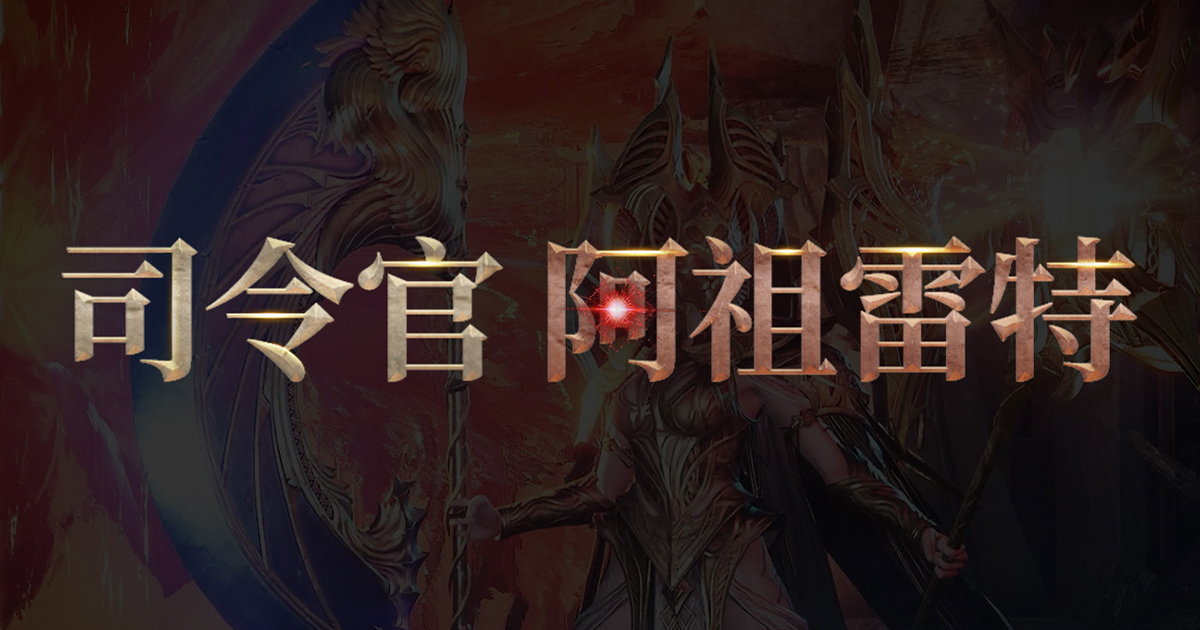
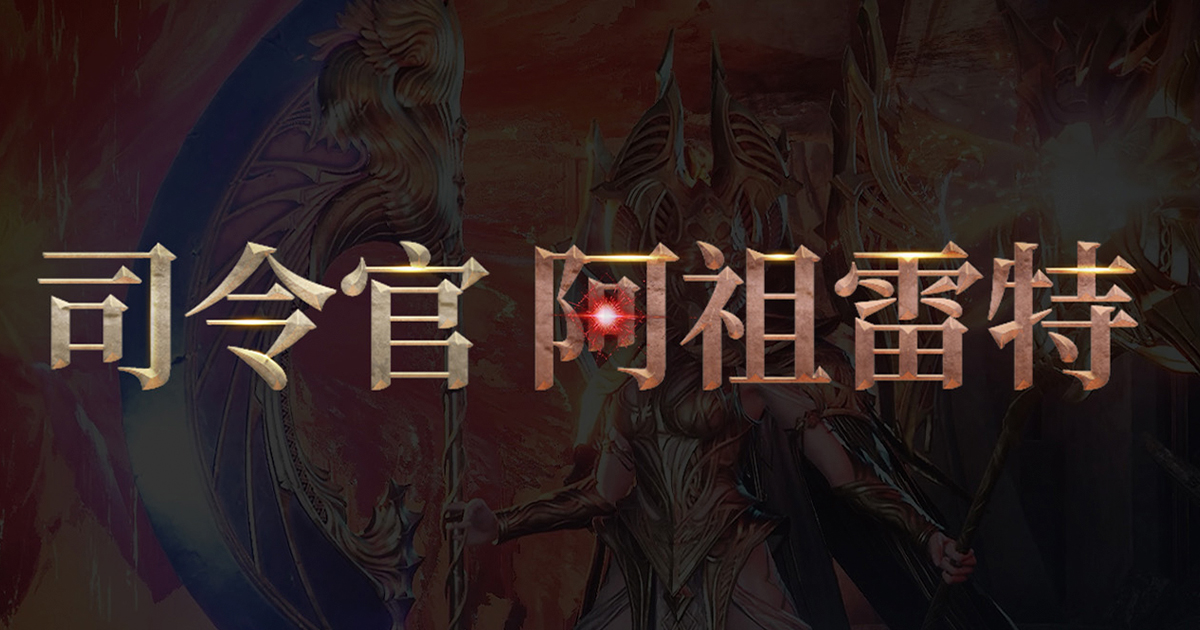
v2 調整

diff --git a/boss-azoret/index.html b/boss-azoret/index.html
@@ -137,7 +137,7 @@
           <div class="kv-section__main fw-lg">
             <div class="kv-section__main-title"><span class="kv-section__main-title-effect"></span></div>
           </div>
-          <p class="section__msg kv-section__date fw-md">2024年03月26日(三) UPDATE</p>
+          <p class="section__msg kv-section__date fw-md">2025年03月26日(三) UPDATE</p>
           <button class="section__play-btn kv-section__play-btn"></button>
           <ul class="kv-section__row row">
             <li class="kv-section__item"><a class="kv-section__link img-android" href="https://play.google.com/store/apps/details?id=com.gamania.twp&amp;hl=zh-TW" target="_blank"></a></li>
@@ -162,7 +162,7 @@
               </h5>
               <div class="section__ornate"></div>
               <ol class="text-md color-secondary--dark animate animate_fadeRight animate_delay200">
-                <li>他是納賽爾、洛瓦爾、西吉爾傾注心血創造的灰色軍團指揮官。纏結生命體。當在朗多發現四顆纏結石時，波拉西亞王國迅速派遣凱黎溫與黑暗騎士團前往支援。黑暗騎士團首次出現於AN100年，是最後一批抵抗妖精襲擊的騎士。</li><br>
+                <li>他他是納賽爾、洛瓦爾、西吉爾傾注心血創造的灰色軍團指揮官。</li><br>
                 <li>納賽爾親手將自己的纏結投入其中，打造出擁有最高完成度的阿祖雷特。</li><br>
                 <li>納賽爾對此感到滿意，將自己的纏結根源——紅沙之力注入其中，賦予灰色軍團指揮官至高的權威。</li>
               </ol>
@@ -183,8 +183,8 @@
           <div class="s3-section__content">
             <div class="s3-section__head">
               <div class="s3-section__heading text-xl color-secondary text-center">
-                <h4 class="fw-md color-primary animate animate_fadeRight"><b class="color-primary">虛空之槍</b>
-                  <p class="color-secondary--dark text-lg fw-normal">主要武器<span class="s3-section-msg color-secondary--light">藍色虛空之槍與紅沙之杖</span></p>
+                <h4 class="fw-md color-primary animate animate_fadeRight"><b class="color-primary fw-lg">虛空之槍</b>
+                  <p class="color-secondary--dark text-lg fw-md">主要武器<span class="s3-section-msg color-secondary--light">藍色虛空之槍與紅沙之杖</span></p>
                 </h4>
               </div>
               <div class="section__ornate animate animate_fadeRight animate_delay200"></div>

diff --git a/boss-azoret/css/style.css b/boss-azoret/css/style.css
@@ -786,7 +786,7 @@ button {
   font-weight: 400;
 }
 .fw-md {
-  font-weight: 500;
+  font-weight: 600;
 }
 .fw-lg {
   font-weight: 700;
@@ -2817,7 +2817,7 @@ button {
     height: 100%;
   }
   .kv-section__decobox {
-    top: 60px;
+    top: 100px;
   }
   .kv-section__sub-title {
     font-size: 20px;
@@ -2831,6 +2831,9 @@ button {
     height: 100%;
     top: -10%;
     left: calc((100% - 78px) / 2);
+  }
+  .kv-section__date {
+    margin-top: 28px;
   }
   .kv-section__row {
     margin-top: 24px;

diff --git a/boss-azoret/scss/_rwd-mobile.scss b/boss-azoret/scss/_rwd-mobile.scss
@@ -7,12 +7,13 @@
       height: 100%;
     }
     &__decobox {
-      top: 60px;
+      top: 100px;
     }
 
     &__sub-title {
       font-size: 20px;
     }
+
 
     &__main {
       &-title {
@@ -23,6 +24,10 @@
         top: -10%;
         left: calc((100% - 78px) / 2);
       }
+    }
+
+    &__date {
+      margin-top: 28px;
     }
     &__row {
       margin-top: 24px;

diff --git a/boss-azoret/scss/_layout.scss b/boss-azoret/scss/_layout.scss
@@ -91,7 +91,7 @@
   }
 
   &-md {
-    font-weight: 500;
+    font-weight: 600;
   }
 
   &-lg {
